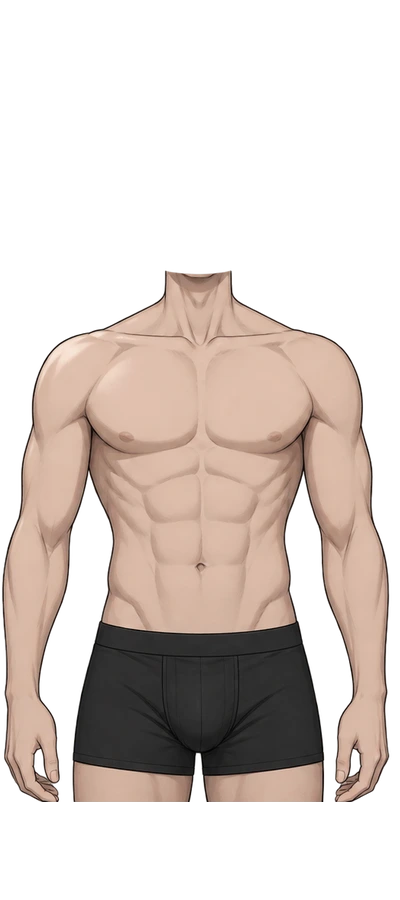
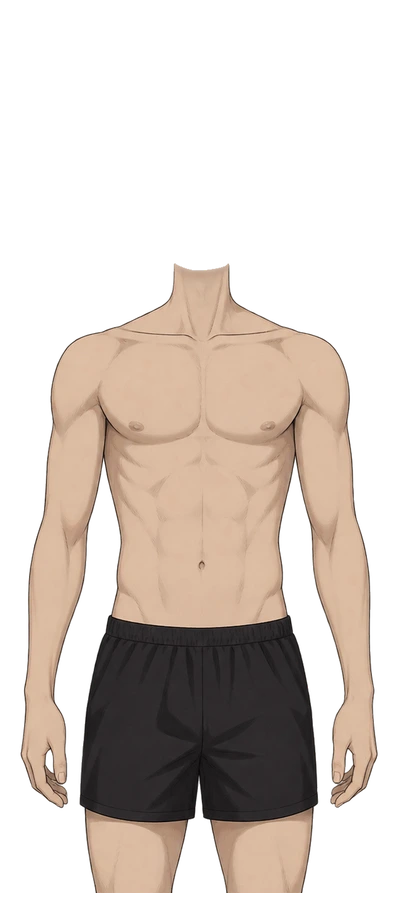
v0.415: [B] 생성 상체 구도와 슬림 체형·턱 바깥 목 윤곽 보정

diff --git a/js/portrait_parts.js b/js/portrait_parts.js
@@ -1520,9 +1520,9 @@ const PortraitParts = (() => {
         900
       ],
       "skinRgb": [
-        223.0,
-        190.0,
-        172.0
+        220.0,
+        188.0,
+        162.0
       ]
     }
   ],
@@ -1620,10 +1620,11 @@ const PortraitParts = (() => {
     const chinAnchor = selection.layers[0].chinY || (female ? 261 : 251);
     const headY = underwear ? (female ? 303 : 295) - chinAnchor : female ? 0 : clothStyle === 0 ? 16 : 8;
     const headTransform = ` transform="translate(0 ${headY})"`;
-    const cardHeight = underwear ? 800 : 480;
-    const view = avatar ? `72 ${headY} 256 256` : `0 0 400 ${cardHeight}`;
+    const cardHeight = 480;
+    const cropY = underwear ? 40 : 0;
+    const view = avatar ? `72 ${headY} 256 256` : `0 ${cropY} 400 ${cardHeight}`;
     const face = selection.layers[0], cloth = selection.layers[1];
-    const source = part => root + part.file + '?v=4';
+    const source = part => root + part.file + (part.file === 'body-m.webp' ? '?v=5' : '?v=4');
     const faceFilter = selection.race === 'orc' ? ` filter="url(#${id}orc)"` : '';
     const image = (part, attributes = '') => {
       const [x, y, w, h] = part.rect, src = source(part);
@@ -1650,13 +1651,14 @@ const PortraitParts = (() => {
     const skinGain = underwear ? (face.skinRgb || [230, 195, 180]).map((value, i) => value / (cloth.skinRgb || [230, 195, 180])[i]) : [];
     const orcMatrix = '.45 .2 0 0 .02 .2 .6 .1 0 .04 .1 .2 .25 0 .01 0 0 0 1 0';
     const bodyTone = underwear ? `<filter id="${id}bodyTone" color-interpolation-filters="sRGB"><feComponentTransfer>${['R','G','B'].map((channel, i) => `<feFunc${channel} type="linear" slope="${skinGain[i]}"/>`).join('')}</feComponentTransfer>${selection.race === 'orc' ? `<feColorMatrix color-interpolation-filters="linearRGB" type="matrix" values="${orcMatrix}"/>` : ''}</filter>` : '';
-    const background = `<defs>${collarDefs}${bodyTone}<clipPath id="${id}head" clipPathUnits="userSpaceOnUse"><path d="${headOutline}"/></clipPath><clipPath id="${id}neck"><path d="M0 0H400V${jawY}H252L247 ${jawY + 15}L234 ${jawY + 30}V255L${neck[1]} 286V325H${neck[0]}V286L166 255V${jawY + 30}L153 ${jawY + 15}L148 ${jawY}H0Z"/></clipPath><radialGradient id="${id}bg"><stop stop-color="${aura}" stop-opacity=".22"/><stop offset="1" stop-color="#080d19"/></radialGradient><filter id="${id}orc"><feColorMatrix type="matrix" values=".45 .2 0 0 .02 .2 .6 .1 0 .04 .1 .2 .25 0 .01 0 0 0 1 0"/></filter><clipPath id="${id}clip"><circle cx="200" cy="${128 + headY}" r="126"/></clipPath></defs>`;
+    const bodyNeckClip = underwear ? `<clipPath id="${id}bodyNeck" clipPathUnits="userSpaceOnUse"><path d="M0 900V310H140L172 295L182 270H218L228 295L260 310H400V900Z"/></clipPath>` : '';
+    const background = `<defs>${collarDefs}${bodyTone}${bodyNeckClip}<clipPath id="${id}head" clipPathUnits="userSpaceOnUse"><path d="${headOutline}"/></clipPath><clipPath id="${id}neck"><path d="M0 0H400V${jawY}H252L247 ${jawY + 15}L234 ${jawY + 30}V255L${neck[1]} 286V325H${neck[0]}V286L166 255V${jawY + 30}L153 ${jawY + 15}L148 ${jawY}H0Z"/></clipPath><radialGradient id="${id}bg"><stop stop-color="${aura}" stop-opacity=".22"/><stop offset="1" stop-color="#080d19"/></radialGradient><filter id="${id}orc"><feColorMatrix type="matrix" values=".45 .2 0 0 .02 .2 .6 .1 0 .04 .1 .2 .25 0 .01 0 0 0 1 0"/></filter><clipPath id="${id}clip"><circle cx="200" cy="${128 + headY}" r="126"/></clipPath></defs>`;
     const robeNeck = !avatar && clothStyle === 1
       ? `<svg x="164" y="275" width="72" height="60" viewBox="36 220 72 20" preserveAspectRatio="none" aria-hidden="true"><image href="${source(face)}" xlink:href="${source(face)}" width="144" height="250"${faceFilter}/></svg>` : '';
     const backCollar = collar ? image(cloth, ` data-depth="collar-back" clip-path="url(#${id}collarBack)"`) : '';
     // 원본 얼굴·목을 먼저 놓고, 의상 앞깃 다음에 얼굴 윤곽을 다시 얹어 턱이 잘리지 않게 한다.
     const neckPlane = underwear ? '' : image(face, ` data-depth="neck"${headTransform}${faceFilter} clip-path="url(#${id}neck)"`);
-    const bodyPlane = underwear ? image(cloth, ` data-depth="underwear" filter="url(#${id}bodyTone)"`) : '';
+    const bodyPlane = underwear ? image(cloth, ` data-depth="underwear" filter="url(#${id}bodyTone)" clip-path="url(#${id}bodyNeck)"`) : '';
     const clothPlane = underwear ? '' : image(cloth, ` data-depth="garment-front"${collar ? ` mask="url(#${id}collarFront)"` : ''}`);
     const headPlane = image(face, ` data-depth="head-front"${headTransform}${faceFilter} clip-path="url(#${id}head)"`);
     const accessories = selection.layers.slice(2);
@@ -1665,8 +1667,8 @@ const PortraitParts = (() => {
     if (glassesIndex > hairIndex && hairIndex >= 0) accessories.splice(hairIndex, 0, accessories.splice(glassesIndex, 1)[0]);
     const details = accessories.map(part => image(part, headTransform)).join('');
     const drawing = `<rect width="400" height="${Math.max(600, cardHeight)}" fill="#0a1220"/><ellipse cx="200" cy="190" rx="240" ry="300" fill="url(#${id}bg)"/>${bodyPlane}${robeNeck}${backCollar}${neckPlane}${clothPlane}${headPlane}${details}`;
-    const art = avatar ? `<g clip-path="url(#${id}clip)">${drawing}</g><circle cx="200" cy="${128 + headY}" r="125" fill="none" stroke="${ring}" stroke-width="4"/>` : drawing + `<rect x="1" y="1" width="398" height="${cardHeight - 2}" fill="none" stroke="${ring}" stroke-width="2" opacity=".7"/>`;
-    return `<svg xmlns="http://www.w3.org/2000/svg" xmlns:xlink="http://www.w3.org/1999/xlink" data-portrait-parts="v5" data-head-offset="${headY}" data-outfit="${selection.outfit}" data-parts-key="${selection.key}" class="${avatar ? 'avatar' : 'portrait'}" width="${size}" height="${avatar ? size : Math.round(size * cardHeight / 400)}" viewBox="${view}" preserveAspectRatio="xMidYMid meet" role="img" aria-label="${escape(avatar ? '초상화' : '캐릭터 일러스트')}">${background}${art}</svg>`;
+    const art = avatar ? `<g clip-path="url(#${id}clip)">${drawing}</g><circle cx="200" cy="${128 + headY}" r="125" fill="none" stroke="${ring}" stroke-width="4"/>` : drawing + `<rect x="1" y="${cropY + 1}" width="398" height="${cardHeight - 2}" fill="none" stroke="${ring}" stroke-width="2" opacity=".7"/>`;
+    return `<svg xmlns="http://www.w3.org/2000/svg" xmlns:xlink="http://www.w3.org/1999/xlink" data-portrait-parts="v6" data-head-offset="${headY}" data-outfit="${selection.outfit}" data-parts-key="${selection.key}" class="${avatar ? 'avatar' : 'portrait'}" width="${size}" height="${avatar ? size : Math.round(size * cardHeight / 400)}" viewBox="${view}" preserveAspectRatio="xMidYMid meet" role="img" aria-label="${escape(avatar ? '초상화' : '캐릭터 일러스트')}">${background}${art}</svg>`;
   }
   PORTRAIT.card = function (seed, gender, element, rank, size = 200, opts = {}) {
     if (!opts.outfit && (!opts.race || opts.race === 'human') && PORTRAIT.imageFor(seed, gender)) return legacy.card.apply(this, arguments);

diff --git a/tools/smoke_test.js b/tools/smoke_test.js
@@ -202,13 +202,25 @@ const { chromium, devices } = require('playwright');
         for (const node of root.querySelectorAll('image')) if (/(?:hair|traits)-/.test(node.getAttribute('href'))) node.remove();
         const src = await PortraitParts.rasterize(new XMLSerializer().serializeToString(doc));
         const image = new Image(); image.src = src; await image.decode();
-        const canvas = document.createElement('canvas'); canvas.width = 400; canvas.height = 800;
+        const canvas = document.createElement('canvas'); canvas.width = 400; canvas.height = 480;
         const ctx = canvas.getContext('2d'); ctx.drawImage(image, 0, 0);
-        const faceRgb = median([ctx.getImageData(170, 185 + offset, 12, 12).data, ctx.getImageData(218, 185 + offset, 12, 12).data]);
-        const bodyRgb = median([ctx.getImageData(150, 380, 8, 8).data]);
+        const faceRgb = median([ctx.getImageData(170, 145 + offset, 12, 12).data, ctx.getImageData(218, 145 + offset, 12, 12).data]);
+        const bodyRgb = median([ctx.getImageData(150, 340, 8, 8).data]);
         if (faceRgb.some((v, i) => Math.abs(v - bodyRgb[i]) > 5)) throw new Error('얼굴·몸 피부색 불일치: ' + gender + face);
-        const neck = ctx.getImageData(200, gender === 'M' ? 312 : 318, 1, 1).data;
+        const neck = ctx.getImageData(200, gender === 'M' ? 272 : 278, 1, 1).data;
         if (neck[0] < 90 || neck[1] < 65) throw new Error('턱과 목 사이 빈 공간');
+        if (gender === 'M' && face === 0) {
+          // 몸만 따로 그려 턱 바깥 잔여 윤곽과 어깨 잘림·과한 폭을 검사한다.
+          for (const node of root.querySelectorAll('image')) if (node.dataset.depth !== 'underwear') node.remove();
+          const bodySrc = await PortraitParts.rasterize(new XMLSerializer().serializeToString(doc));
+          const body = new Image(); body.src = bodySrc; await body.decode(); ctx.clearRect(0, 0, 400, 480); ctx.drawImage(body, 0, 0);
+          for (const x of [170, 230]) if (ctx.getImageData(x, 240, 1, 1).data[0] > 100) throw new Error('몸 쪽 윤곽이 턱 바깥으로 나옴');
+          if (ctx.getImageData(155, 285, 1, 1).data[0] < 100) throw new Error('목 클립이 어깨를 자름');
+          const chest = ctx.getImageData(0, 360, 400, 1).data;
+          const skinX = [];
+          for (let x = 0; x < 400; x++) if (chest[x * 4] > 100 && chest[x * 4 + 1] > 70) skinX.push(x);
+          if (!skinX.length || skinX[skinX.length - 1] - skinX[0] > 325) throw new Error('머리 대비 몸 폭이 과함');
+        }
       }
     });
   });
@@ -218,7 +230,7 @@ const { chromium, devices } = require('playwright');
       for (const gender of ['M', 'F']) {
         UI.handle('ps-gender', gender);
         const svg = document.querySelector('.id-preview svg[data-portrait-parts]');
-        if (!svg || svg.dataset.outfit !== 'underwear' || svg.getAttribute('viewBox') !== '0 0 400 800') throw new Error('생성 화면이 기본 몸체가 아님: ' + gender);
+        if (!svg || svg.dataset.outfit !== 'underwear' || svg.getAttribute('viewBox') !== '0 40 400 480') throw new Error('생성 화면이 기본 몸체가 아님: ' + gender);
         if (svg.querySelector('[data-depth="garment-front"]')) throw new Error('생성 중 겉옷 표시');
         const src = await PortraitParts.rasterize(svg.outerHTML);
         const image = new Image(); image.src = src; await image.decode();

diff --git a/index.html b/index.html
@@ -8,7 +8,7 @@
   <meta name="theme-color" content="#05080d">
   <link rel="preconnect" href="https://fonts.googleapis.com">
   <link rel="stylesheet" href="https://fonts.googleapis.com/css2?family=Black+Han+Sans&family=Chakra+Petch:wght@500;600;700&family=IBM+Plex+Sans+KR:wght@400;500;700&display=swap">
-  <link rel="stylesheet" href="dist/style.css?v=s2.0.414">
+  <link rel="stylesheet" href="dist/style.css?v=s2.0.415">
 </head>
 <body>
   <div id="app"></div>
@@ -26,6 +26,6 @@
       document.body.appendChild(d);
     });
   </script>
-  <script src="dist/game.js?v=s2.0.414"></script>
+  <script src="dist/game.js?v=s2.0.415"></script>
 </body>
 </html>

diff --git a/css/style.css b/css/style.css
@@ -133,7 +133,6 @@ p { margin: 6px 0; }
 .create-grid > * { min-width: 0; }
 .id-preview { display: grid; gap: 10px; position: sticky; top: 0; justify-items: center; }
 .id-preview > .portrait, .id-preview > .portrait-img { max-width: 100%; height: auto; }
-.id-preview > svg[data-outfit="underwear"] { width: auto; height: min(480px, 55vh); }
 .id-preview > button { justify-self: stretch; }
 .choice-grid { display: grid; grid-template-columns: repeat(auto-fill, minmax(170px, 1fr)); gap: 6px; }
 .choice-grid.elems { grid-template-columns: repeat(auto-fill, minmax(118px, 1fr)); }

diff --git a/js/data.js b/js/data.js
@@ -1,5 +1,5 @@
 // 게임 버전 (화면 오른쪽 아래에 표시)
-const GAME_VERSION = '0.414';
+const GAME_VERSION = '0.415';
 
 // ===== 게이트 크로니클: 데이터 정의 =====
 // 귀곡팔황의 "경지"를 각성 등급으로, "오행"을 에테르 속성으로 옮겼다.

diff --git a/tools/prepare_wardrobe_parts.py b/tools/prepare_wardrobe_parts.py
@@ -7,6 +7,7 @@ from scipy import ndimage
 
 parser = argparse.ArgumentParser(description=__doc__)
 parser.add_argument('--source', type=Path, required=True)
+parser.add_argument('--male-source', type=Path, required=True)
 args = parser.parse_args()
 source = Image.open(args.source).convert('RGBA')
 if source.size != (1448, 1086):
@@ -14,7 +15,6 @@ if source.size != (1448, 1086):
 root = Path(__file__).resolve().parent.parent / 'assets/portraits/parts'
 # 자르기·균일 배율·목 중심 등록만 한다. 몸의 비율을 변형하지 않는다.
 for gender, box, cx, top, scale in [
-    ('m', (50, 350, 700, 1086), 366, 386, .76),
     ('f', (770, 350, 1400, 1086), 1087, 402, .86),
 ]:
     image = source.crop(box)
@@ -27,3 +27,18 @@ for gender, box, cx, top, scale in [
     canvas = Image.new('RGBA', (400, 900))
     canvas.alpha_composite(image, (round(200 + (box[0] - cx) * scale), round(270 + (box[1] - top) * scale)))
     canvas.save(root / ('body-' + gender + '.webp'), 'WEBP', quality=92, method=4)
+
+# 남성은 부피를 줄여 새로 그린 몸체를 쓴다. 균일 배율로 쇄골을 335에 등록한다.
+image = Image.open(args.male_source).convert('RGBA')
+if image.size != (1086, 1448):
+    raise ValueError('남성 몸체 등록 기준 이미지는 1086×1448입니다.')
+rgba = np.array(image)
+labels, _ = ndimage.label(rgba[:, :, 3] > 180)
+sizes = np.bincount(labels.ravel()); sizes[0] = 0
+keep = ndimage.binary_dilation(labels == sizes.argmax(), iterations=1)
+rgba[:, :, 3] = np.where(keep, rgba[:, :, 3], 0)
+scale = .622
+image = Image.fromarray(rgba).resize((round(image.width * scale), round(image.height * scale)), Image.Resampling.LANCZOS)
+canvas = Image.new('RGBA', (400, 900))
+canvas.alpha_composite(image, (round(200 - 542 * scale), round(335 - 551 * scale)))
+canvas.save(root / 'body-m.webp', 'WEBP', quality=92, method=4)

diff --git a/assets/portraits/parts/README.md b/assets/portraits/parts/README.md
@@ -46,12 +46,14 @@ python3 tools/prepare_portrait_parts.py --source-dir /path/to/generated_images
 
 ## 생성부터 복장 갖추기
 
-생성 화면은 성인 남녀 기본 몸체·속옷 파츠(`body-m.webp`, `body-f.webp`)를 쓴다. 얼굴·머리 시드는 그대로 유지하고 `outfit: 'underwear'`로 요청한다. 생성용 뷰포트는 400×800, 기본 몸체 원본 등록은 400×900이며 몸의 비율을 늘리지 않는다. 어린 인물은 기존 평상복 파츠를 유지한다. 속옷 차림에서는 얼굴 파츠의 목을 그리지 않고 몸체의 목만 사용한다. 머리·머리카락·장신구를 실제 턱 끝(`chinY`)에 맞춰 함께 내려 배치해 목 노출을 줄이고 턱을 자연스럽게 연결한다. 옷을 입은 인물의 보정 좌표는 유지한다. 얼굴별 볼 피부색과 몸의 중간색을 측정한 `skinRgb`를 사용해 몸의 색을 맞추며 명암은 유지한다.
+생성 화면은 성인 남녀 기본 몸체·속옷 파츠(`body-m.webp`, `body-f.webp`)를 쓴다. 얼굴·머리 시드는 그대로 유지하고 `outfit: 'underwear'`로 요청한다. 생성용 뷰포트는 상체만 담는 400×480(세로 시작 40), 기본 몸체 원본 등록은 400×900이며 몸의 비율을 늘리지 않는다. 어린 인물은 기존 평상복 파츠를 유지한다. 속옷 차림에서는 얼굴 파츠의 목을 그리지 않고 몸체의 목만 사용한다. 머리·머리카락·장신구를 실제 턱 끝(`chinY`)에 맞춰 함께 내려 배치해 목 노출을 줄이고 턱을 자연스럽게 연결한다. 옷을 입은 인물의 보정 좌표는 유지한다. 얼굴별 볼 피부색과 몸의 중간색을 측정한 `skinRgb`를 사용해 몸의 색을 맞추며 명암은 유지한다.
 
 `js/wardrobe.js`가 생성 이후 복장을 결정한다. 프롤로그에서는 출신에 따른 생활복을 입고, 각성 후에는 직업 계열에 따른 복장을 입는다. 시작 방어구는 직업을 따르며 이후 교체한 방어구는 물건의 종류를 따른다. 방어구 해제 시에도 기본 직업복을 유지한다. 초상화·원형 아이콘·지도 마커 모두 같은 복장을 쓰며 옛 저장에는 기본 외형 필드를 채운다. 의상은 기존 스타일 파츠를 재사용하고 능력치·아이템 효과는 바꾸지 않는다.
 
 ```bash
-python3 tools/prepare_wardrobe_parts.py --source /path/to/exec-632ae241-68ff-4f98-8738-00fa3cdd7435.png
+python3 tools/prepare_wardrobe_parts.py --source /path/to/exec-632ae241-68ff-4f98-8738-00fa3cdd7435.png --male-source /path/to/exec-24b8a407-96e4-47f0-a4f2-751e8a30bf99.png
 ```
 
 피부색 기준은 `python3 tools/calibrate_portrait_skin.py`로 갱신한다. 얼굴·몸 이미지 교체 시 다시 실행하며 기본 파츠 준비·확장 도구에서도 자동 호출한다. 색 보정은 몸에만 적용하고 얼굴 원화는 그대로 쓴다.
+
+남성 기본 몸체는 어깨·가슴·팔의 부피를 줄여 다시 그린 원화를 사용한다. 머리 대비 몸을 가로로 찌그러뜨리지 않고 원화 자체의 체형을 조정했다. 몸체 목 윗부분에는 얼굴 뒤로 숨는 목 클립을 적용해 남아 있는 윤곽이 턱 바깥으로 튀어나오지 않게 한다. 목 클립은 어깨와 승모근을 자르지 않는다. 생성에서는 전신이 아닌 상체만 표시하며 남성 몸체 이미지 캐시 버전은 `v=5`이다.
